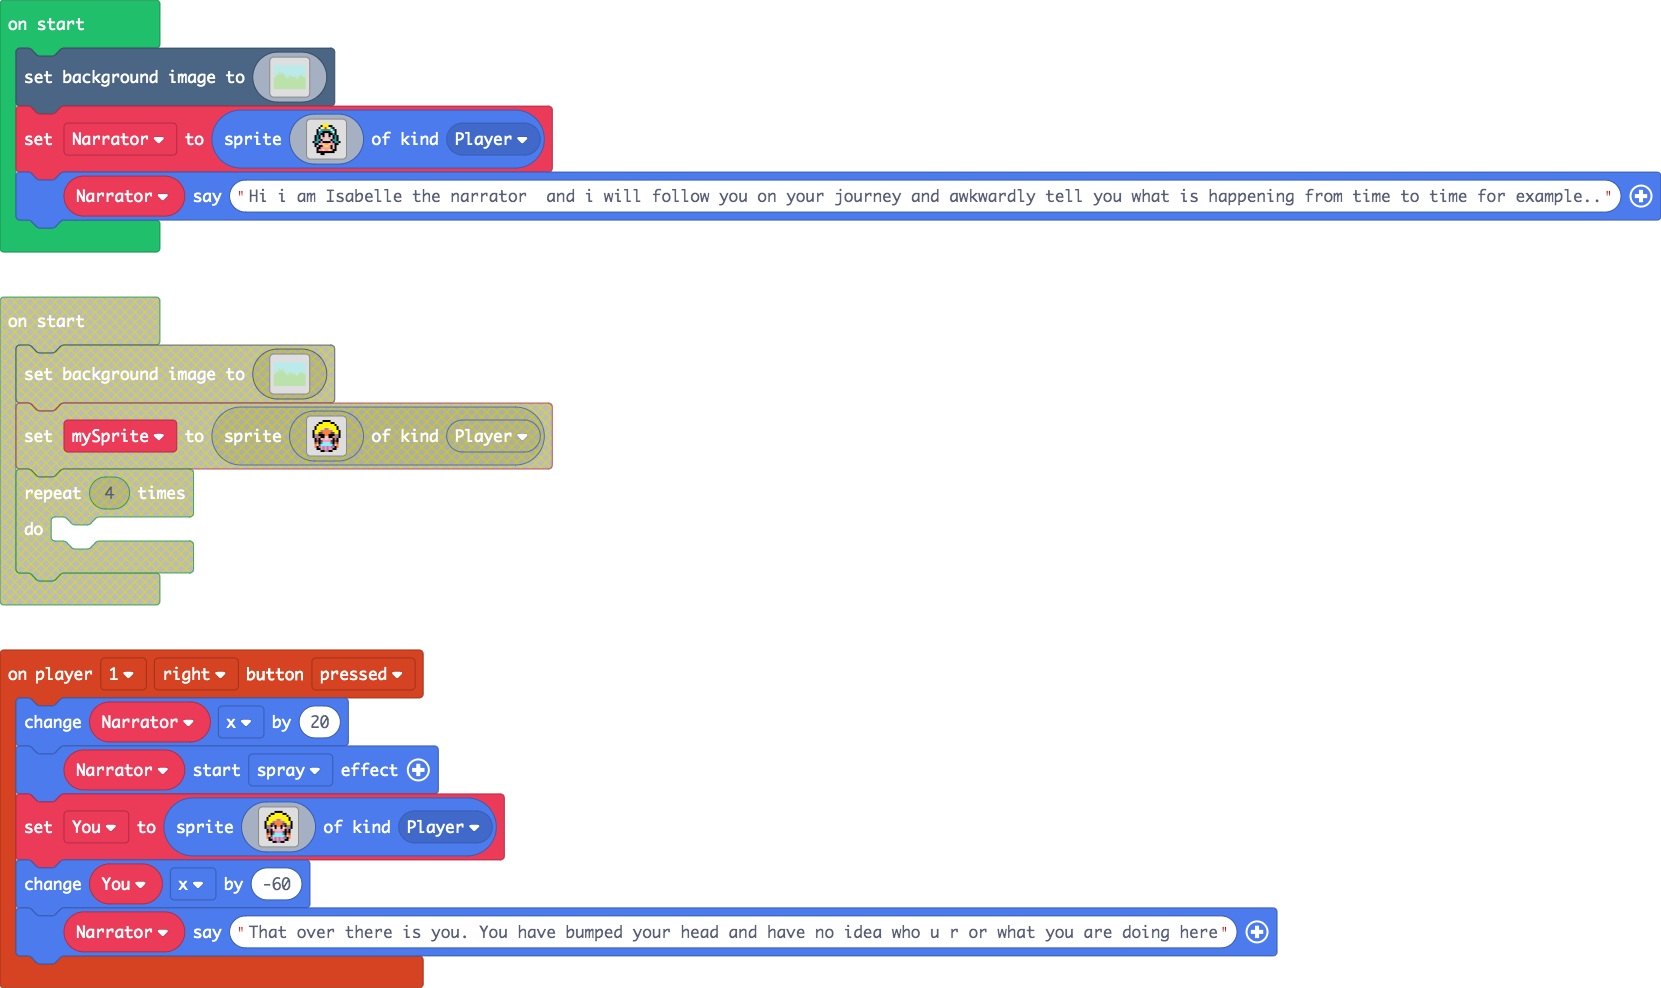
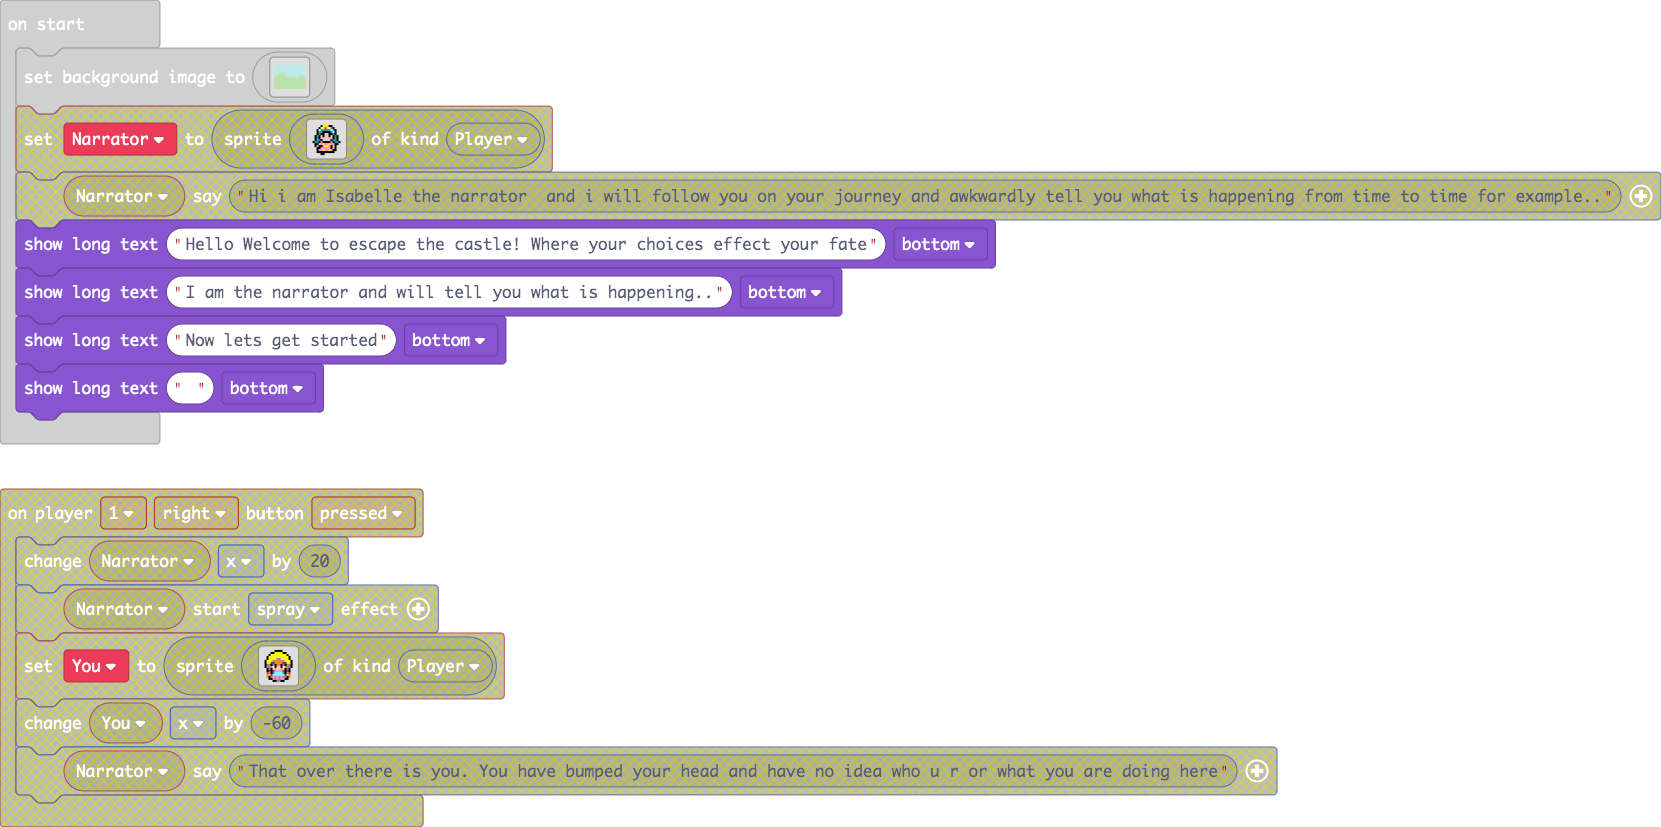
Update main.blocks, main.ts

diff --git a/main.ts b/main.ts
@@ -1,29 +1,3 @@
-controller.player1.onButtonEvent(ControllerButton.Right, ControllerButtonEvent.Pressed, function () {
-    Narrator.x += 20
-    Narrator.startEffect(effects.spray)
-    You = sprites.create(img`
-. . . . . f f f f . . . . . 
-. . . f f 5 5 5 5 f f . . . 
-. . f 5 5 5 5 5 5 5 5 f . . 
-. f 5 5 5 5 5 5 5 5 5 5 f . 
-. f 5 5 5 d b b d 5 5 5 f . 
-f 5 5 5 b 4 4 4 4 b 5 5 5 f 
-f 5 5 c c 4 4 4 4 c c 5 5 f 
-f b b f b f 4 4 f b f b b f 
-f b b 4 1 f d d f 1 4 b b f 
-. f b f d 3 d d 3 d f b f . 
-. f e f e 3 3 3 3 e f e f . 
-. e 4 f 6 9 9 9 9 6 f 4 e . 
-. 4 d c 9 9 9 9 9 9 c d 4 . 
-. 4 f b 3 b 3 b 3 b b f 4 . 
-. . f f 3 b 3 b 3 3 f f . . 
-. . . . f f b b f f . . . . 
-`, SpriteKind.Player)
-    You.x += -60
-    Narrator.say("That over there is you. You have bumped your head and have no idea who u r or what you are doing here")
-})
-let You: Sprite = null
-let Narrator: Sprite = null
 scene.setBackgroundImage(img`
 9 9 9 9 9 9 9 9 9 9 9 9 9 9 9 9 9 9 9 9 9 9 9 9 9 9 9 9 9 9 9 9 9 9 9 9 9 9 9 9 9 9 9 9 9 9 9 9 9 9 9 9 9 9 9 9 9 9 9 9 9 9 9 9 9 9 9 9 9 9 9 9 9 9 9 9 9 9 9 9 9 9 9 9 9 9 9 9 9 9 9 9 9 9 9 9 9 9 9 9 9 9 9 9 9 9 9 9 9 9 9 9 9 9 9 9 9 9 9 9 9 9 9 9 9 9 9 9 9 9 9 9 9 9 9 9 9 9 9 9 9 9 9 9 9 9 9 9 9 9 9 9 9 9 9 9 9 9 9 9 
 9 9 9 9 9 9 9 9 9 9 9 9 9 9 9 9 9 9 9 9 9 9 9 9 9 9 9 9 9 9 9 9 9 9 9 9 9 9 9 9 9 9 9 9 9 9 9 9 9 9 9 9 9 9 9 9 9 9 9 9 9 9 9 9 9 9 9 9 9 9 9 9 9 9 9 9 9 9 9 9 9 9 9 9 9 9 9 9 9 9 9 9 9 9 9 9 9 9 9 9 9 9 9 9 9 9 9 9 9 9 9 9 9 9 9 9 9 9 9 9 9 9 9 9 9 9 9 9 9 9 9 9 9 9 9 9 9 9 9 9 9 9 9 9 9 9 9 9 9 9 9 9 9 9 9 9 9 9 9 9 
@@ -146,22 +120,7 @@ scene.setBackgroundImage(img`
 7 7 7 7 7 7 7 7 7 7 7 7 7 7 7 7 7 7 7 7 7 7 7 7 7 7 7 7 7 7 7 7 7 7 7 7 7 7 7 7 7 7 7 7 7 7 7 7 7 7 7 7 7 7 7 7 7 7 7 7 7 7 7 7 7 7 7 7 7 7 7 7 7 7 7 7 7 7 7 7 7 7 7 7 7 7 7 7 7 7 7 7 7 7 7 7 7 7 7 7 7 7 7 7 7 7 7 7 7 7 7 7 7 7 7 7 7 7 7 7 7 7 7 7 7 7 7 7 7 7 7 7 7 7 7 7 7 7 7 7 7 7 7 7 7 7 7 7 7 7 7 7 7 7 7 7 7 7 7 7 
 7 7 7 7 7 7 7 7 7 7 7 7 7 7 7 7 7 7 7 7 7 7 7 7 7 7 7 7 7 7 7 7 7 7 7 7 7 7 7 7 7 7 7 7 7 7 7 7 7 7 7 7 7 7 7 7 7 7 7 7 7 7 7 7 7 7 7 7 7 7 7 7 7 7 7 7 7 7 7 7 7 7 7 7 7 7 7 7 7 7 7 7 7 7 7 7 7 7 7 7 7 7 7 7 7 7 7 7 7 7 7 7 7 7 7 7 7 7 7 7 7 7 7 7 7 7 7 7 7 7 7 7 7 7 7 7 7 7 7 7 7 7 7 7 7 7 7 7 7 7 7 7 7 7 7 7 7 7 7 7 
 `)
-Narrator = sprites.create(img`
-. . . . . . 5 . 5 . . . . . . . 
-. . . . . f 5 5 5 f f . . . . . 
-. . . . f 1 5 2 5 1 6 f . . . . 
-. . . f 1 6 6 6 6 6 1 6 f . . . 
-. . . f 6 6 f f f f 6 1 f . . . 
-. . . f 6 f f d d f f 6 f . . . 
-. . f 6 f d f d d f d f 6 f . . 
-. . f 6 f d 3 d d 3 d f 6 f . . 
-. . f 6 6 f d d d d f 6 6 f . . 
-. f 6 6 f 3 f f f f 3 f 6 6 f . 
-. . f f d 3 5 3 3 5 3 3 f f . . 
-. . f d f f 3 5 5 3 f d f . . . 
-. . . f f 3 3 3 3 3 f d f . . . 
-. . . f 3 3 5 3 3 5 3 f f . . . 
-. . . f f f f f f f f f . . . . 
-. . . . . f f . . . . . . . . . 
-`, SpriteKind.Player)
-Narrator.say("Hi i am Isabelle the narrator  and i will follow you on your journey and awkwardly tell you what is happening from time to time for example..")
+game.showLongText("Hello Welcome to escape the castle! Where your choices effect your fate", DialogLayout.Bottom)
+game.showLongText("I am the narrator and will tell you what is happening..", DialogLayout.Bottom)
+game.showLongText("Now lets get started", DialogLayout.Bottom)
+game.showLongText("", DialogLayout.Bottom)
